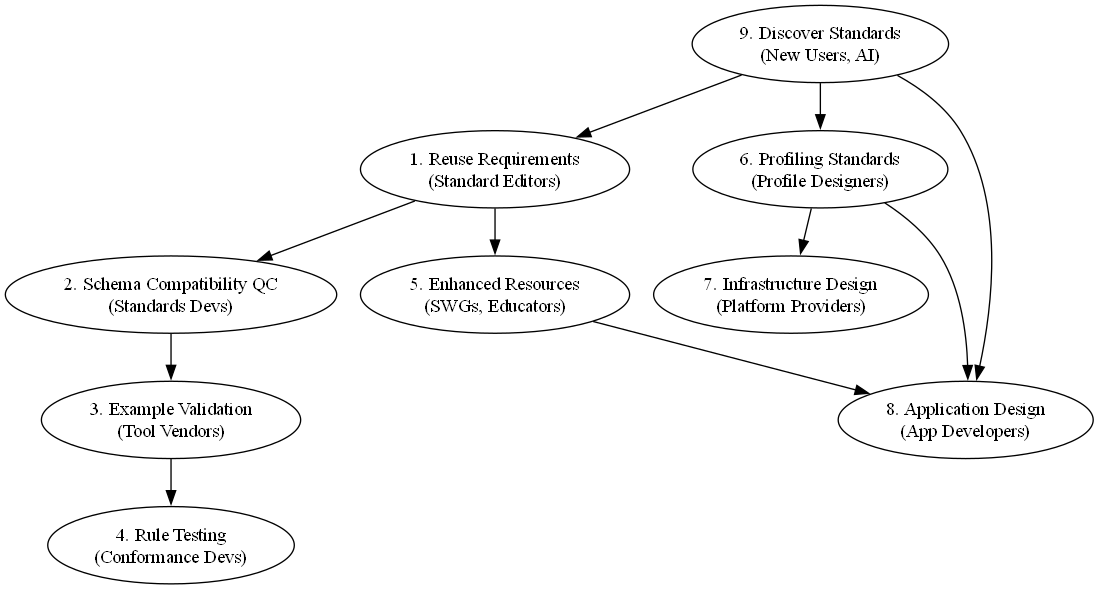
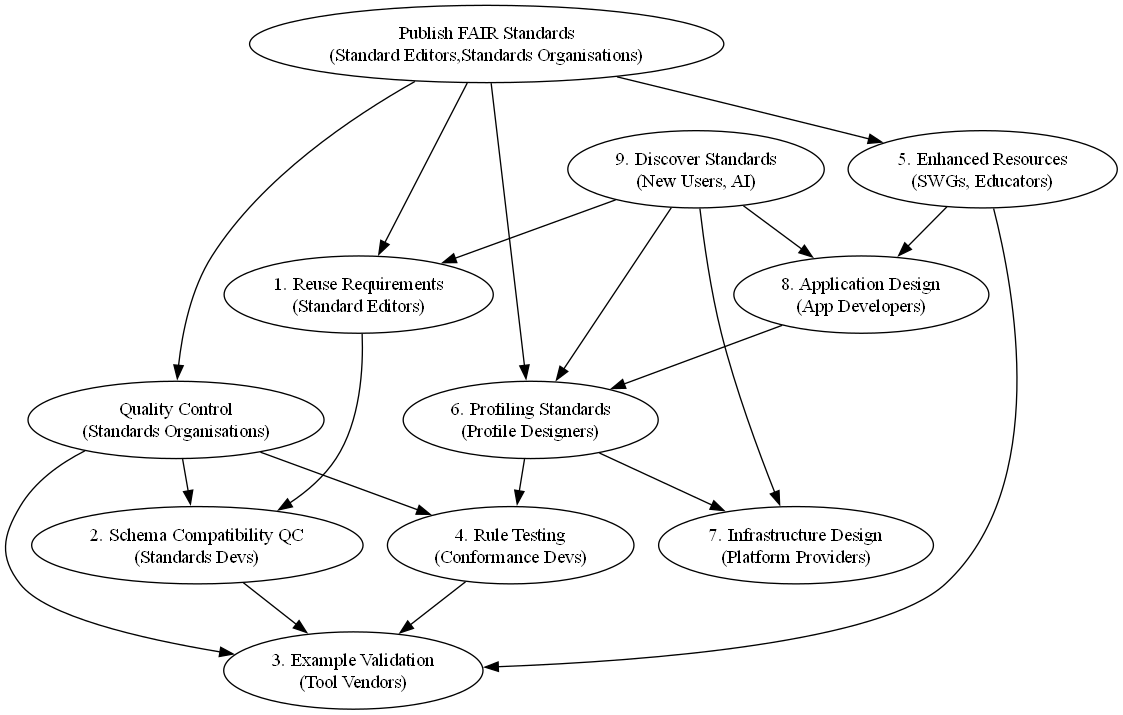
Tweaked use case diagram test

diff --git a/_pages/usecases/viz.py b/_pages/usecases/viz.py
@@ -4,6 +4,7 @@ import graphviz
 dot = graphviz.Digraph(comment="OGC Building Block Use Case Relationships", format='png')
 
 # Use case nodes
+dot.node('U0', 'Publish FAIR Standards\n(Standard Editors,Standards Organisations)')
 dot.node('U1', '1. Reuse Requirements\n(Standard Editors)')
 dot.node('U2', '2. Schema Compatibility QC\n(Standards Devs)')
 dot.node('U3', '3. Example Validation\n(Tool Vendors)')
@@ -13,18 +14,28 @@ dot.node('U6', '6. Profiling Standards\n(Profile Designers)')
 dot.node('U7', '7. Infrastructure Design\n(Platform Providers)')
 dot.node('U8', '8. Application Design\n(App Developers)')
 dot.node('U9', '9. Discover Standards\n(New Users, AI)')
+dot.node('U01', 'Quality Control\n(Standards Organisations)')
 
 # Connections (simplified relationships)
 dot.edges([
+    ('U0', 'U1'),
+    ('U0', 'U6'),
+    ('U0', 'U01'),
+    ('U01', 'U2'),
     ('U9', 'U1'),
     ('U9', 'U6'),
+    ('U9', 'U7'),
     ('U1', 'U2'),
+    ('U01', 'U3'),
     ('U2', 'U3'),
-    ('U3', 'U4'),
-    ('U1', 'U5'),
+    ('U4', 'U3'),
+    ('U01', 'U4'),
+    ('U0', 'U5'),
     ('U6', 'U7'),
-    ('U6', 'U8'),
+    ('U6', 'U4'),
+    ('U8', 'U6'),
     ('U5', 'U8'),
+    ('U5', 'U3'),
     ('U9', 'U8')
 ])
 
